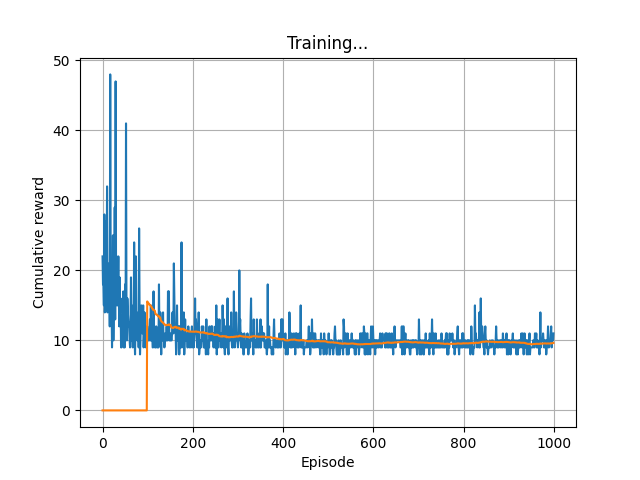
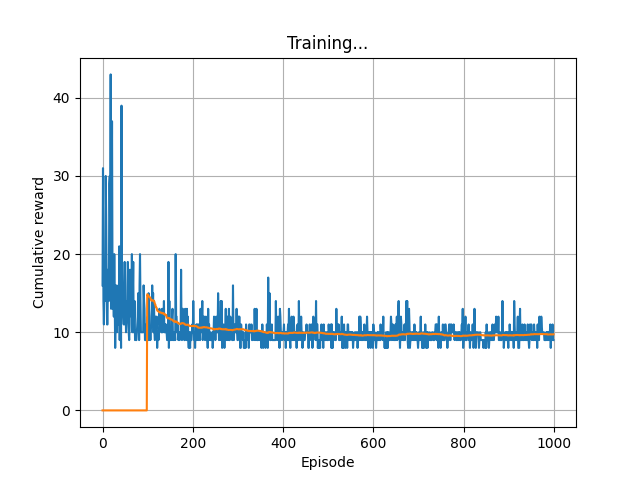
Ex4: small fix in task 2

diff --git a/exercise-4/rbf_agent.py b/exercise-4/rbf_agent.py
@@ -49,11 +49,11 @@ class Agent(object):
         if len(state.shape) == 1:
             state = state.reshape(1, -1)
         # Task 1a: DONE: Use (s, abs(s)) as features
-        # scaled_state = self.scaler.transform(state)
-        # return np.array([np.array([sample, np.abs(sample)]).flatten() for sample in scaled_state])
+        scaled_state = self.scaler.transform(state)
+        return np.array([np.array([sample, np.abs(sample)]).flatten() for sample in scaled_state])
 
         # Task 1b: RBF features
-        return self.featurizer.transform(self.scaler.transform(state))
+        # return self.featurizer.transform(self.scaler.transform(state))
 
     def get_action(self, state, epsilon=0.0):
         if np.random.random() < epsilon:
@@ -98,14 +98,14 @@ class Agent(object):
             # Sample some data
             samples = self.memory.sample(self.batch_size)
 
-        # Task 2: TODO: Reformat data in the minibatch
+        # Task 2: DONE: Reformat data in the minibatch
         states = np.array([sample.state for sample in samples])
         action = np.array([sample.action for sample in samples])
         next_states = np.array([sample.next_state for sample in samples])
         rewards = np.array([sample.reward for sample in samples])
         dones = np.array([sample.done for sample in samples])
 
-        # Task 2: TODO: Calculate Q(s', a)
+        # Task 2: DONE: Calculate Q(s', a)
         featurized_next_states = self.featurize(next_states)
         next_qs = np.array([
             [q.predict([featurized_next_state])[0] for q in self.q_functions]
@@ -113,7 +113,7 @@ class Agent(object):
         ])
 
         # Calculate the updated target values
-        # Task 2: TODO: Calculate target based on rewards and next_qs
+        # Task 2: DONE: Calculate target based on rewards and next_qs
         max_qs = np.array([np.max(next_qs_value) for next_qs_value in next_qs])
         targets = rewards + self.gamma * max_qs
 

diff --git a/exercise-4/main.py b/exercise-4/main.py
@@ -69,7 +69,7 @@ for ep in range(num_episodes):
 
         # Task 1: DONE: Update the Q-values
         # agent.single_update(state, action, next_state, reward, done)
-        # Task 2: TODO: Store transition and batch-update Q-values
+        # Task 2: DONE: Store transition and batch-update Q-values
         agent.store_transition(state, action, next_state, reward, done)
         agent.update_estimator()
         # Task 4: Update the DQN
@@ -90,7 +90,7 @@ for ep in range(num_episodes):
     #               "weights_%s_%d.mdl" % (env_name, ep))
 
 plot_rewards(cumulative_rewards)
-plt.savefig("plots/task-2b.png")
+plt.savefig("plots/task-2a.png")
 print('Complete')
 plt.ioff()
 plt.show()
